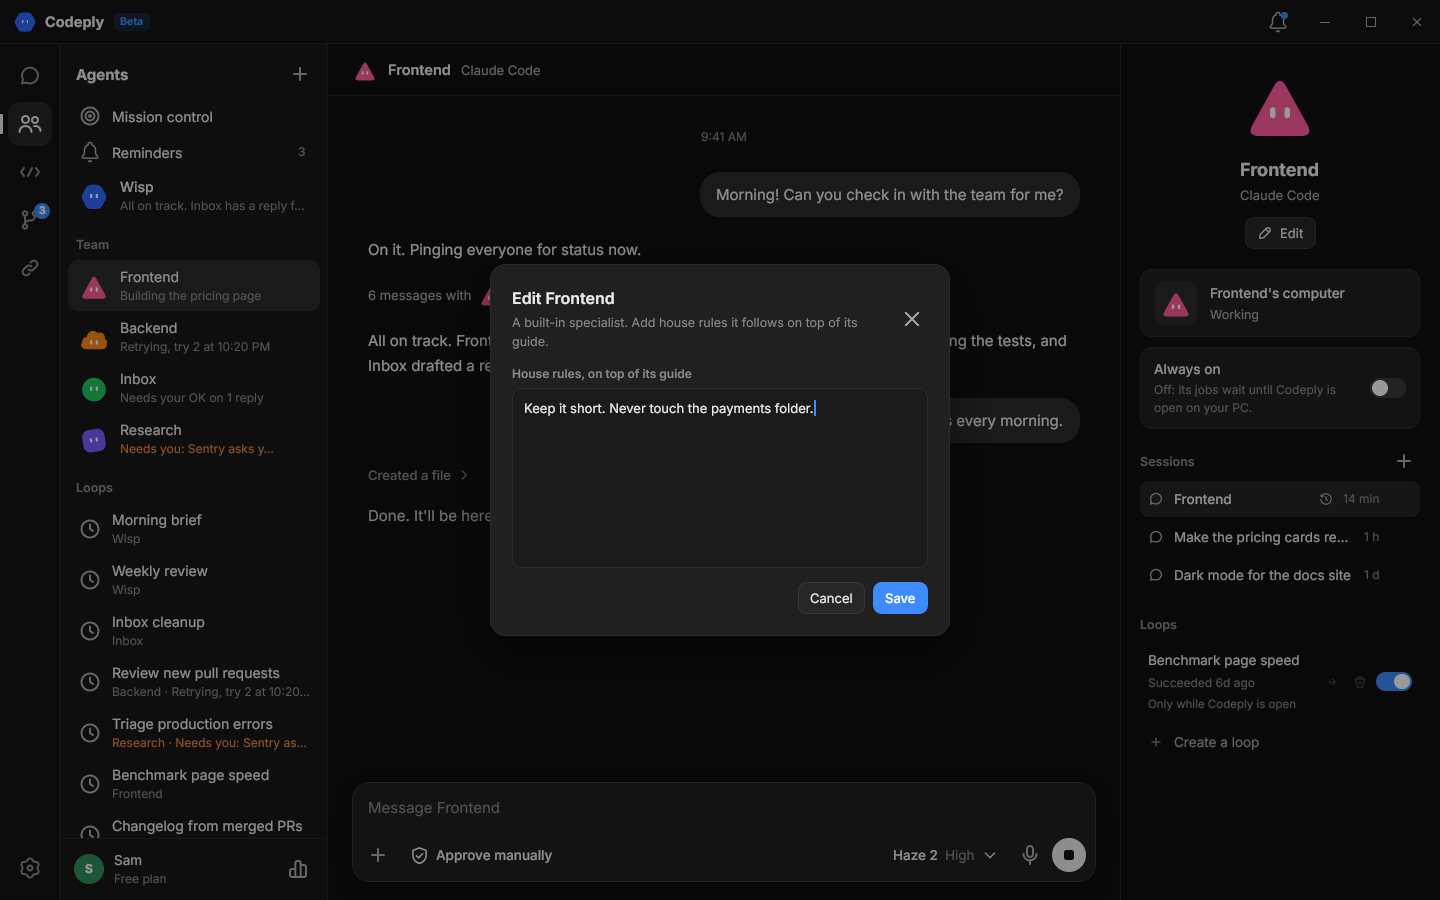
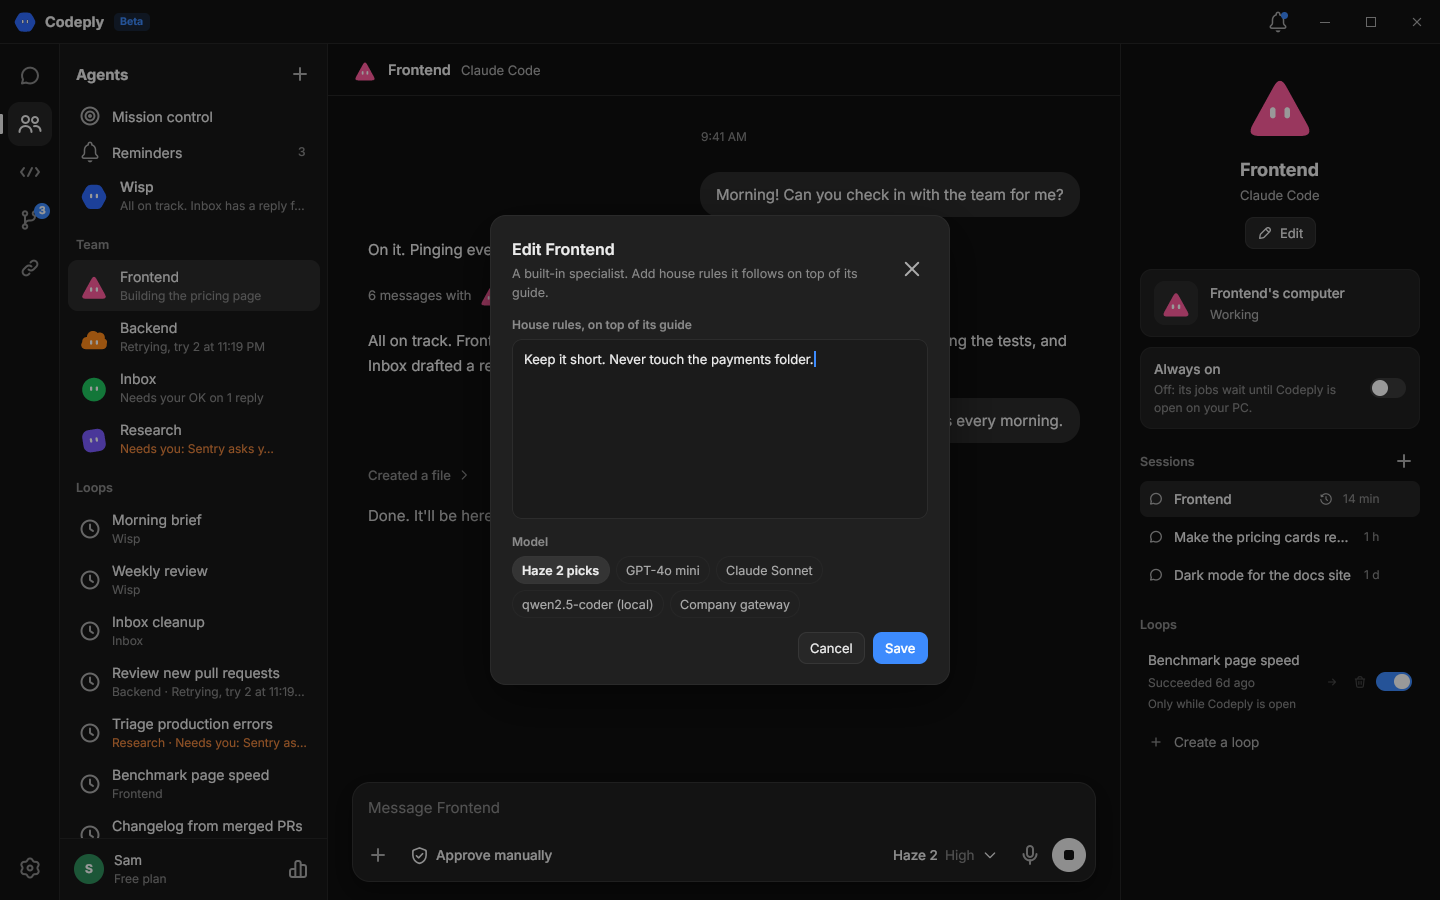
Agents app: a specialist can have its own model
The specialist editor has a Model row: "Haze 2 picks" (auto) or one of your models, saved to the
account with the rest, as the phone and the Electron app let each specialist run on its own model.

Claude-Session: https://claude.ai/code/session_01MFYAyJe9m4cpQAzkUBCoYQ

diff --git a/rune-app/src/team.rs b/rune-app/src/team.rs
@@ -133,6 +133,7 @@ impl App {
             *self.edit_mut(EditKey::SpecName) = rune::TextEdit::new(name);
             *self.edit_mut(EditKey::SpecFocus) = rune::TextEdit::new(focus);
             *self.edit_mut(EditKey::SpecInstructions) = rune::TextEdit::new(prompt);
+            self.spec_model = if spec.model.is_empty() { crate::models::AUTO.into() } else { spec.model.clone() };
         }
         self.notice = None;
         self.team_dialog = Some(d);
@@ -171,6 +172,9 @@ impl App {
             }
         } else {
             patch.insert("notes".into(), prompt.into());
+        }
+        if self.spec_model != spec.model && !(spec.model.is_empty() && self.spec_model == crate::models::AUTO) {
+            patch.insert("model".into(), self.spec_model.clone().into());
         }
         self.notice = None;
         self.team_dialog = None;
@@ -266,6 +270,24 @@ fn close_dialog(s: &mut App) {
     s.notice = None;
 }
 
+/// The specialist's own model: Haze 2 picks (auto), or one of your models.
+fn model_pick(s: &App, t: &Theme) -> El {
+    let mut options = vec![(crate::models::AUTO.to_owned(), "Haze 2 picks".to_owned())];
+    options.extend(s.data.extra.models.list.iter().map(|m| (m.id.clone(), m.name.clone())));
+    let chips = options.into_iter().map(|(id, name)| {
+        let on = s.spec_model == id;
+        let pick = id.clone();
+        rune::row().key(format!("spec-model/{id}")).h(28.0).px(10.0).radius(14.0).center_y()
+            .fill(if on { t.active } else { rune::Color::TRANSPARENT }).border(1.0, if on { t.control_border } else { t.border }).hover(t.hover)
+            .role("radio").checked(on).label(name.clone())
+            .child(text(name).font(ui(12.5, if on { 600.0 } else { 400.0 })).color(if on { t.text } else { t.dim }))
+            .on_press(move |s: &mut App| s.spec_model = pick.clone())
+    });
+    col().w_full().gap(5.0)
+        .child(text("Model").font(ui(12.0, 600.0)).color(t.faint))
+        .child(rune::row().w_full().gap(6.0).flex_wrap().children(chips))
+}
+
 /// A taller field for instructions: several lines, Enter makes a new one.
 fn area(s: &App, t: &Theme, key: EditKey, label: &str, placeholder: &str) -> El {
     let input = text_input(s.edit(key), ui(13.0, 400.0)).key(format!("team-field/{}", key.name())).grow(1.0).w_full().color(t.text)
@@ -303,6 +325,7 @@ pub fn dialog(s: &App, t: &Theme) -> Option<El> {
                 ("Instructions, its system prompt", "What it does, how, and what it must never do")
             };
             fields.push(area(s, t, EditKey::SpecInstructions, label, placeholder));
+            fields.push(model_pick(s, t));
             (
                 format!("Edit {name}"),
                 if spec.builtin { "A built-in specialist. Add house rules it follows on top of its guide.".into() } else { "Changes reach your phone too. Its jobs and chats stay with it when you rename it.".into() },

diff --git a/rune-app/src/app.rs b/rune-app/src/app.rs
@@ -375,6 +375,8 @@ pub struct App {
     opened_session: String,
     /// The agent whose Delete was pressed once: the button asks "Delete Inbox?" before it does.
     pub delete_armed: Option<String>,
+    /// The specialist editor's model pick: "auto" (Haze 2 picks) or one of your models' ids.
+    pub spec_model: String,
     /// Whether the usage sheet is open (the button beside you at the sidebar's foot).
     pub usage_open: bool,
     /// The usage sheet's grouping (weekly or daily) and the week ("w12") or day ("d2026-10-11")
@@ -476,6 +478,7 @@ impl App {
             reminders_open: false,
             opened_session: String::new(),
             delete_armed: None,
+            spec_model: crate::models::AUTO.into(),
             code_ask: false,
             attachments: std::collections::HashMap::new(),
             agent_session: std::collections::HashMap::new(),

diff --git a/rune-app/src/tests.rs b/rune-app/src/tests.rs
@@ -1004,3 +1004,18 @@ fn a_failed_reminder_comes_back_to_the_form_and_notices_clear_on_leaving() {
     click(&mut rt, "agent-row/mission");
     assert!(rt.state.notice.is_none(), "a page's notice doesn't follow you");
 }
+
+#[test]
+fn a_specialist_can_have_its_own_model() {
+    let mut rt = runtime(App::with_mock());
+    rt.state.open_agent(Some("inbox"));
+    rt.state.open_team_dialog(crate::team::TeamDialog::Edit("inbox".into()));
+    rt.invalidate();
+    settle(&mut rt);
+    assert_eq!(rt.state.spec_model, "auto");
+    let id = rt.state.data.extra.models.list.first().map(|m| m.id.clone()).expect("the sample has a model of yours");
+    click(&mut rt, &format!("spec-model/{id}"));
+    click(&mut rt, "team-dialog-ok");
+    assert!(rt.state.team_dialog.is_none());
+    assert_eq!(rt.state.data.extra.agents.spec("inbox").unwrap().model, id);
+}

diff --git a/rune-app/src/agentsync.rs b/rune-app/src/agentsync.rs
@@ -828,6 +828,7 @@ pub fn patch_spec(spec: &mut Spec, patch: &Value) {
     if let Some(v) = str_of("instructions") { spec.instructions = v; }
     if let Some(v) = str_of("notes") { spec.notes = v; }
     if let Some(v) = str_of("voice") { spec.voice = v; }
+    if let Some(v) = str_of("model") { spec.model = v; }
     if let Some(v) = str_of("shape") { spec.shape = v; }
     if let Some(v) = str_of("color") { spec.color = v; }
     if let Some(v) = patch["alwaysOn"].as_bool() { spec.always_on = v; }
